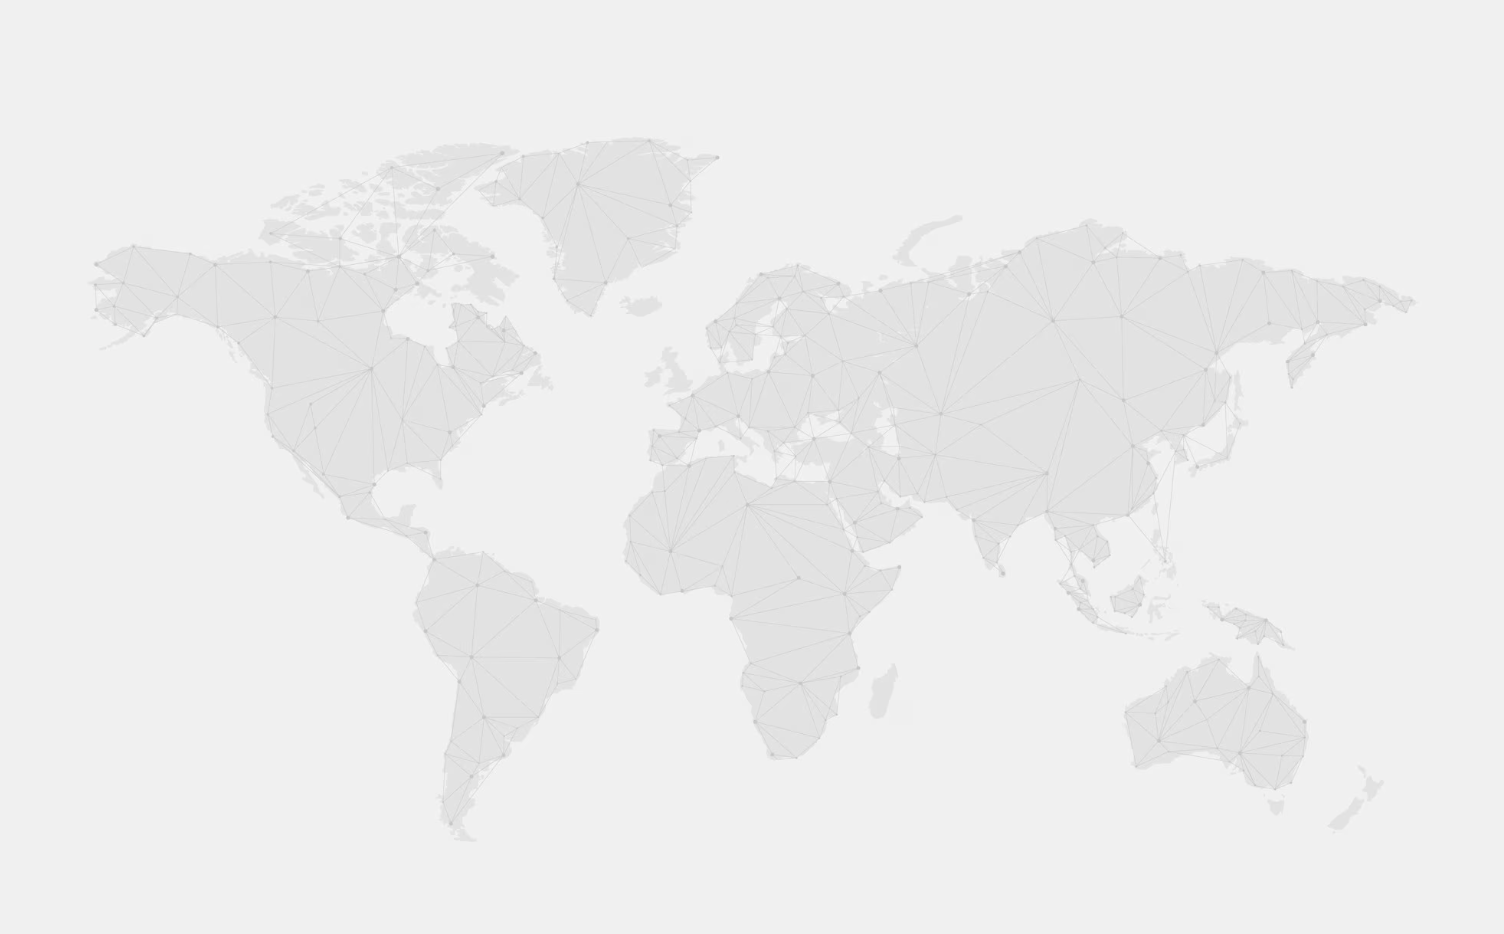
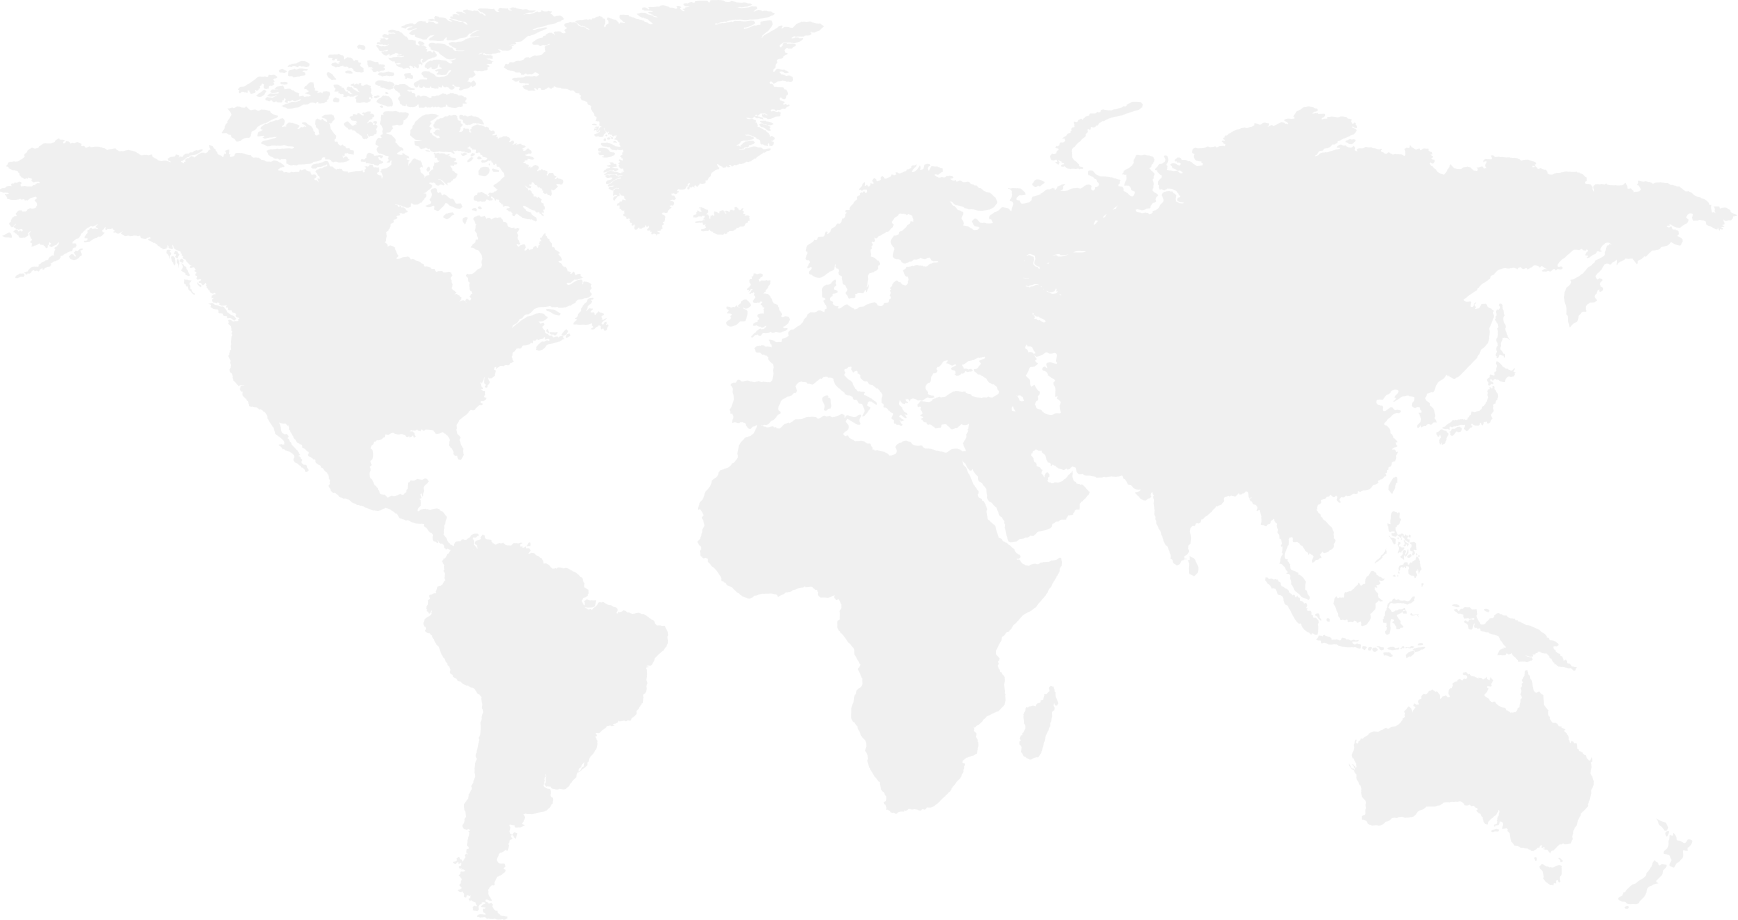
Changes

diff --git a/src/components/GlobalNetworkSection.tsx b/src/components/GlobalNetworkSection.tsx
@@ -56,10 +56,7 @@ const GlobalNetworkSection = () => {
   return (
     <section
       ref={sectionRef}
-      className="relative min-h-[60vh] md:min-h-[70vh] overflow-hidden"
-      style={{
-        background: 'linear-gradient(180deg, #FFFFFF 0%, #E8E8E8 30%, #1a1a2e 70%, #000000 100%)',
-      }}
+      className="relative min-h-[60vh] md:min-h-[70vh] overflow-hidden bg-white"
     >
       {/* Title */}
       <div 
@@ -77,27 +74,22 @@ const GlobalNetworkSection = () => {
         <img
           src={worldMap}
           alt="World Map"
-          className="w-full h-full object-contain opacity-60"
+          className="w-full h-full object-contain"
         />
       </div>
 
       {/* Location Pins */}
       <div className="absolute inset-0">
-        {locations.map((location, index) => (
+        {locations.map((location) => (
           <div
             key={location.name}
-            className={`absolute flex flex-col items-center transition-all duration-700 ${
-              isVisible ? "opacity-100 scale-100" : "opacity-0 scale-50"
-            }`}
+            className="absolute flex flex-col items-center"
             style={{
               left: `${location.x}%`,
               top: `${location.y}%`,
-              transitionDelay: `${index * 100}ms`,
             }}
           >
             <div className="relative group cursor-pointer">
-              {/* Pulse effect */}
-              <div className="absolute inset-0 w-6 h-6 md:w-8 md:h-8 -translate-x-1/2 -translate-y-1/2 rounded-full bg-primary/30 animate-ping" />
               {/* Pin icon */}
               <MapPin 
                 className="w-4 h-4 md:w-6 md:h-6 text-primary drop-shadow-lg -translate-x-1/2 -translate-y-1/2" 
@@ -111,9 +103,6 @@ const GlobalNetworkSection = () => {
           </div>
         ))}
       </div>
-
-      {/* Bottom gradient fade */}
-      <div className="absolute bottom-0 left-0 right-0 h-32 bg-gradient-to-t from-black to-transparent" />
     </section>
   );
 };
